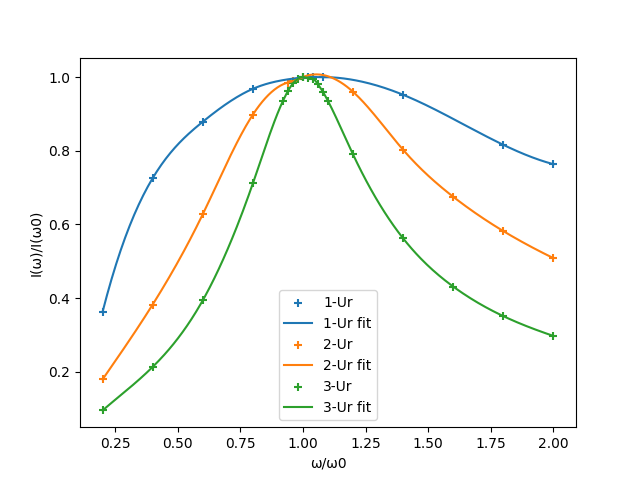
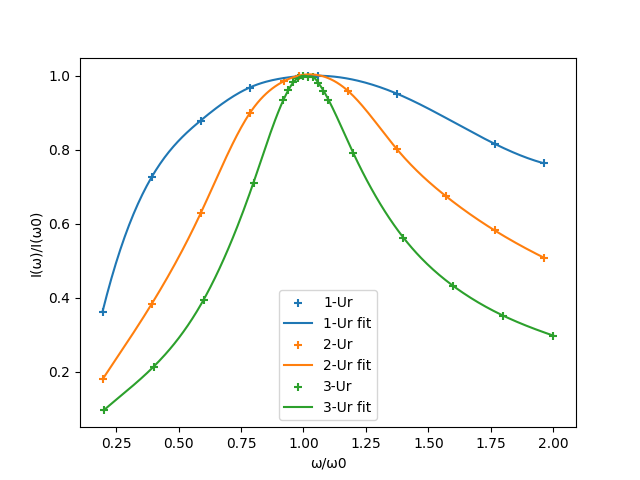
add experimental support of exp10 edit data of exp9

diff --git a/exp10/scissors.py b/exp10/scissors.py
@@ -1,0 +1,50 @@
+import cv2
+import numpy as np
+
+# Global variables
+points = []
+scale_factor = 0.5  # Scaling factor
+original_img = None
+
+
+def select_points(event, x, y, flags, param):
+    global points, scale_factor, original_img
+    if event == cv2.EVENT_LBUTTONDOWN:
+        # Restore the click coordinates to the original image scale
+        real_x = int(x / scale_factor)
+        real_y = int(y / scale_factor)
+        points.append((real_x, real_y))
+        print(f"Selected point: {real_x}, {real_y}")
+        if len(points) == 4:
+            warp_perspective(param)
+
+
+def warp_perspective(path):
+    global points, original_img
+    # Target rectangle size (adjust as needed)
+    width, height = 1000, 800
+    pts1 = np.float32(points)
+    pts2 = np.float32([[0, 0], [width, 0], [width, height], [0, height]])  # Stretch to target rectangle
+    matrix = cv2.getPerspectiveTransform(pts1, pts2)
+    result = cv2.warpPerspective(original_img, matrix, (width, height))
+    cv2.imwrite(path, result)
+    cv2.imshow("Result", result)
+    cv2.waitKey(0)
+    cv2.destroyAllWindows()
+
+
+# Main function
+def cut(path):
+    global original_img, scale_factor, points
+    points = []
+    # Read the original image
+    original_img = cv2.imread(path)
+
+    # Resize the image for display
+    resized_img = cv2.resize(original_img, None, fx=scale_factor, fy=scale_factor, interpolation=cv2.INTER_AREA)
+
+    # Open window and set mouse callback
+    cv2.imshow("Image", resized_img)
+    cv2.setMouseCallback("Image", select_points, path)
+    cv2.waitKey(0)
+    cv2.destroyAllWindows()

diff --git a/exp10/artist.py b/exp10/artist.py
@@ -1,0 +1,41 @@
+import pandas as pd
+import matplotlib.pyplot as plt
+import numpy as np
+from scipy.interpolate import make_interp_spline
+import os
+
+
+def draw_scatter_plot(data_paths, output_dir, col_idx_x=0, col_idx_y=1):
+    """ Draw a scatter plot from multiple csv files """
+    plt.figure()
+
+    for data_path in data_paths:
+        data = pd.read_csv(data_path)
+        x_label = data.columns[col_idx_x]
+        y_label = data.columns[col_idx_y]
+
+        x = data.iloc[:, col_idx_x]
+        y = data.iloc[:, col_idx_y]
+        label = os.path.splitext(os.path.basename(data_path))[0]
+        plt.scatter(x, y, marker='+', label=label)
+
+        x_new = np.linspace(x.min(), x.max(), 300)
+        spl = make_interp_spline(x, y, k=3)
+        y_smooth = spl(x_new)
+        plt.plot(x_new, y_smooth, label=f'{label} fit')
+
+        max_y_smooth = y_smooth.max()
+        max_x_smooth = x_new[y_smooth.argmax()]
+        plt.annotate(f'Max: ({max_x_smooth:.4g}, {max_y_smooth:.4g})', xy=(max_x_smooth, max_y_smooth),
+                     xytext=(max_x_smooth, max_y_smooth + 0.1),
+                     arrowprops=dict(facecolor='black', shrink=0.05))
+
+        plt.axvline(x=max_x_smooth, color='gray', linestyle='-.')
+
+    plt.xlabel("f / Hz")
+    plt.ylabel("U / V")
+    plt.legend()
+    file_name = f"{os.path.splitext(os.path.basename(data_paths[0]))[0]}.png"
+    plt.savefig(os.path.join(output_dir, file_name))
+    plt.close()
+    plt.show()

diff --git a/exp9/artist.py b/exp9/artist.py
@@ -62,9 +62,11 @@ def draw_3_scatter_plot_2(data_paths, output_dir, col_idx_x=0, col_idx_y=1):
     """ Draw a scatter plot from multiple csv files """
     plt.figure()
 
+    i = 0
+    f = [510, 510, 500]
     for data_path in data_paths:
         data = pd.read_csv(data_path)
-        data['f'] = data['f'] / 500
+        data['f'] = data['f'] / f[i]
         data['Ur'] = data['Ur'] / data['Ur'].max()
 
         x = data.iloc[:, col_idx_x]
@@ -76,6 +78,8 @@ def draw_3_scatter_plot_2(data_paths, output_dir, col_idx_x=0, col_idx_y=1):
         spl = make_interp_spline(x, y, k=3)
         y_smooth = spl(x_new)
         plt.plot(x_new, y_smooth, label=f'{label} fit')
+
+        i += 1
 
     plt.xlabel("ω/ω0")
     plt.ylabel("I(ω)/I(ω0)")

diff --git a/exp10/main.py b/exp10/main.py
@@ -1,0 +1,23 @@
+import artist as at
+import librarian as lb
+import scissors as sc
+import palette as pl
+import os
+
+
+if __name__ == '__main__':
+    data_dir = os.path.join(os.path.dirname(__file__), 'data')
+    output_dir = os.path.join(os.path.dirname(__file__), 'output')
+    os.makedirs(output_dir, exist_ok=True)
+
+    csv_files = lb.find_data(data_dir)
+    at.draw_scatter_plot(csv_files, output_dir)
+
+    img_files = lb.find_images()
+
+    for img_file in img_files:
+        sc.cut(img_file)
+
+    # 弃用
+    # for img_file in img_files:
+    #     pl.enhance_image(img_file)

diff --git a/exp10/librarian.py b/exp10/librarian.py
@@ -1,0 +1,19 @@
+import os
+
+
+def find_images(img_path='img'):
+    images = []
+    for root, dirs, files in os.walk(img_path):
+        for file in files:
+            if file.endswith('.jpg') or file.endswith('.png'):
+                images.append(os.path.join(root, file))
+    return images
+
+
+def find_data(data_path='data'):
+    data = []
+    for root, dirs, files in os.walk(data_path):
+        for file in files:
+            if file.endswith('.csv'):
+                data.append(os.path.join(root, file))
+    return data

diff --git a/exp10/palette.py b/exp10/palette.py
@@ -1,0 +1,13 @@
+from PIL import Image, ImageEnhance
+
+
+def enhance_image(path):
+    # Open the image file
+    img = Image.open(path)
+
+    # Enhance the image
+    enhancer = ImageEnhance.Contrast(img)
+    enhanced_img = enhancer.enhance(1.0)
+
+    # Save the enhanced image
+    enhanced_img.save(path)
